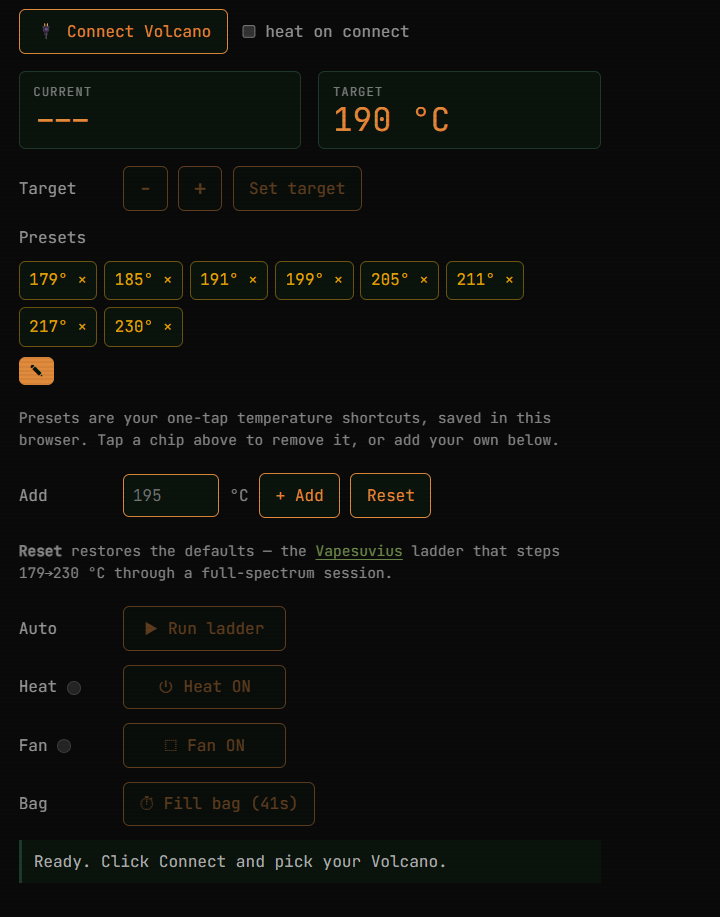
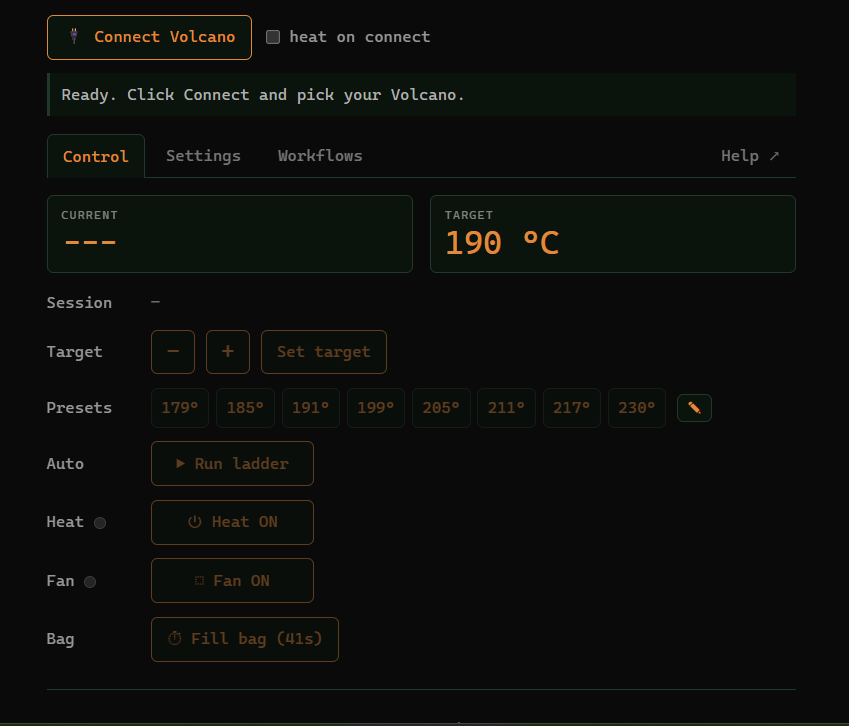
README: add workflow-editor screenshot, refresh UI screenshot, fix stale 'one file' line

diff --git a/README.md b/README.md
@@ -6,12 +6,16 @@ Control a **Storz &amp; Bickel Volcano Hybrid** straight from your browser over
 **Web Bluetooth** — no app, no backend, no Home Assistant. The browser is the BLE
 central and talks to the device's GATT directly; nothing leaves your machine.
 
-One HTML file, one stylesheet, one script. No build step, no dependencies.
+Just static files — HTML, CSS, and a little vanilla JS. No build step, no
+framework, no dependencies; installable as a PWA and works offline.
 
 **Live:** [**volcano.magikh0e.pl**](https://volcano.magikh0e.pl/) — the standalone,
 installable app · also [embedded on magikh0e.pl](https://magikh0e.pl/pubHomeAutomation/volcano-control.html)
 
+The control panel and the workflow editor:
+
 <img src="WebUIExample.png" alt="The Volcano Hybrid control panel: connect, temperature readout and stepper, editable presets, heat/fan/bag controls" width="420">
+<img src="WorkFlowExample.png" alt="The workflow editor: a Conditional Temp Set action with an if→then→wait ladder plus a Set LED Brightness action" width="440">
 
 ---
 